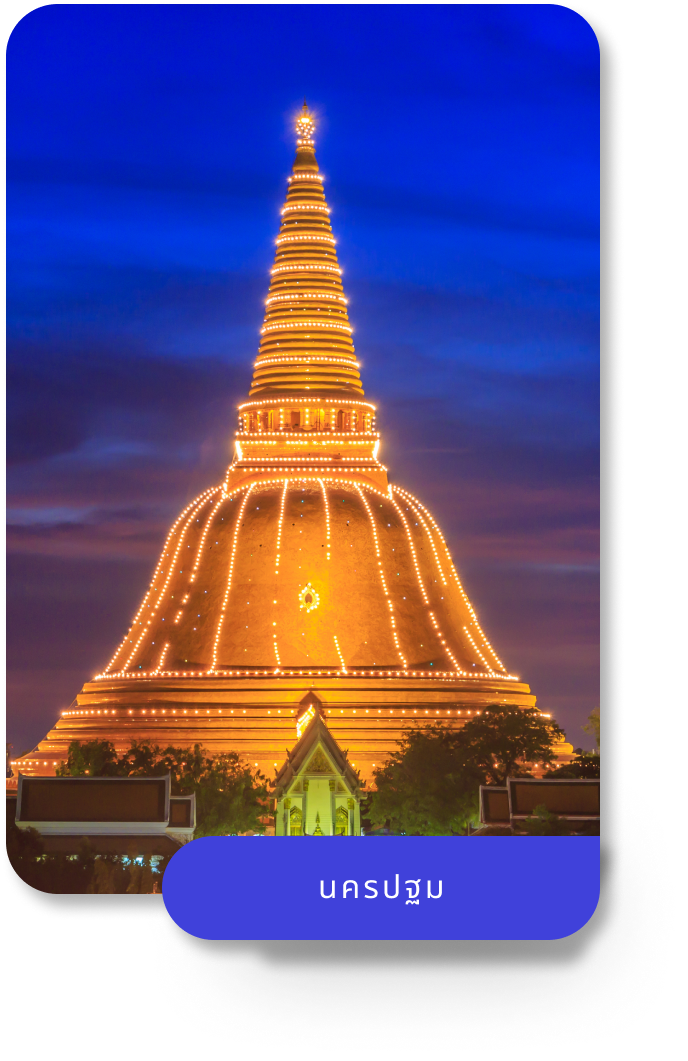
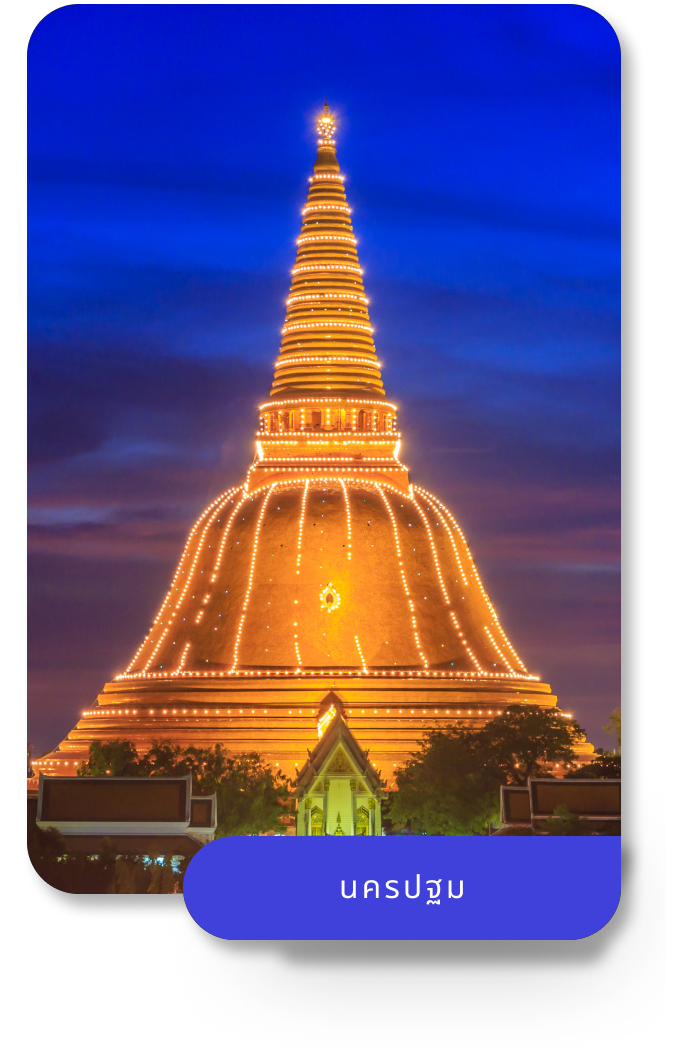
เสร็จหน้า Home

diff --git a/screens/home/Home.vue b/screens/home/Home.vue
@@ -6,13 +6,62 @@
                 background-color="transparent"
                 translucent
         />
+        <view class="main-container">
+            <view :style="{marginLeft: 25, marginBottom: 25}">
+                <text class="province-name-en">{{provinceNameEn}}</text>
+                <text class="province-name-th">{{provinceNameTh}}</text>
+                <text class="temperature">{{temperature}}</text>
+                <text class="status">{{status}}</text>
+            </view>
+
+            <view-pager class="view-pager"
+                        :initialPage="0"
+                        :pageMargin="-100"
+                        :onPageSelected="handlePageSelect">
+                <view key="1">
+                    <image :source="imageNakhonPathom"
+                           class="image-nakhon-pathom"
+                           resizeMode="contain"
+                           :onLayout="handleLayoutChange"/>
+                </view>
+                <view key="2">
+                    <image :source="imageYasothon"
+                           class="image-yasothon"
+                           resizeMode="contain"/>
+                </view>
+            </view-pager>
+        </view>
     </image-background>
 </template>
 
 <script>
-    import bg from '../../assets/bg_yasothon.jpg';
+    // แก้ปัญหาเรื่อง androidx
+    // https://github.com/react-native-community/react-native-geolocation/issues/39
+
+    import ViewPager from '@react-native-community/viewpager';
+    import bgNakhonPathom from '../../assets/bg_nakhon_pathom.jpg';
+    import bgYasothon from '../../assets/bg_yasothon.jpg';
+    import imageNakhonPathom from '../../assets/bg_card_nakhon_pathom_w500.png';
+    import imageYasothon from '../../assets/bg_card_yasothon_w500.png';
+
+    const provinceList = [
+        {
+            bg: bgNakhonPathom,
+            nameTh: 'นครปฐม',
+            nameEn: 'Nakhon Pathom',
+            temperature: 32,
+            status: 'แดดจัด ห่างออกไป 239 กิโลเมตร',
+        }, {
+            bg: bgYasothon,
+            nameTh: 'ยโสธร',
+            nameEn: 'Yasothon',
+            temperature: 38,
+            status: 'แดดจัด ห่างออกไป 543 กิโลเมตร',
+        }
+    ];
 
     export default {
+        components: {ViewPager},
         props: {
             navigation: { // stack navigator
                 type: Object
@@ -20,14 +69,106 @@
         },
         data: () => {
             return {
-                bg,
+                bg: provinceList[0].bg,
+                provinceNameTh: provinceList[0].nameTh,
+                provinceNameEn: provinceList[0].nameEn,
+                temperature: provinceList[0].temperature,
+                status: provinceList[0].status,
+
+                imageNakhonPathom,
+                imageYasothon,
+                imageWidth: 0,
+                imageHeight: 0,
+                viewPagerMargin: 0,
+                status: false,
             };
         },
         methods: {
+            handleLayoutChange: function(e) {
+                if (this.status) {
+                    return;
+                }
 
+                const {x, y, width, height} = e.nativeEvent.layout;
+                this.imageWidth = width;
+                this.imageHeight = height;
+                //alert(`x: ${x}\ny: ${y}\nwidth: ${width}\nheight: ${height}`);
+
+                let scaleMargin = null;
+                if ((height / width) > (773 / 500)) {
+                    // ความกว้างรูปจะเต็ม image
+                    // ช่องว่างด้านซ้ายรูป 19px, ช่องว่างด้านขวารูป: 46px
+                    scaleMargin = (width * 46 / 500);
+                    this.viewPagerMargin = -1 * scaleMargin;
+                } else {
+                    // ความสูงรูปจะเต็ม image
+
+                }
+                this.status = true;
+            },
+            handlePageSelect: function(e) {
+                const selectedPageIndex = e.nativeEvent.position;
+                this.bg = provinceList[selectedPageIndex].bg;
+                this.provinceNameTh = provinceList[selectedPageIndex].nameTh;
+                this.provinceNameEn = provinceList[selectedPageIndex].nameEn;
+                this.temperature = provinceList[selectedPageIndex].temperature;
+                this.status = provinceList[selectedPageIndex].status;
+            }
         }
     }
 </script>
 
 <style>
+    .main-container {
+        flex: 1;
+    }
+
+    .view-pager {
+        flex: 1;
+        margin-top: 180;
+    }
+
+    .province-name-en {
+        position: absolute;
+        font-family: DBHeaventt-Light;
+        color: white;
+        font-size: 18;
+        margin-top: 60;
+    }
+
+    .province-name-th {
+        position: absolute;
+        font-family: DBHeavent-Bold;
+        color: white;
+        font-size: 55;
+        margin-top: 68;
+    }
+
+    .temperature {
+        position: absolute;
+        font-family: DBHeavent-Med;
+        color: white;
+        font-size: 90;
+        margin-top: 96;
+    }
+
+    .status {
+        position: absolute;
+        font-family: DBHeaventt-Light;
+        color: white;
+        font-size: 18;
+        margin-top: 175;
+    }
+    .image-nakhon-pathom {
+        flex: 1;
+        width: 100%;
+        border-width: 0;
+        border-color: red;
+    }
+    .image-yasothon {
+        flex: 1;
+        width: 100%;
+        border-width: 0;
+        border-color: yellow;
+    }
 </style>

diff --git a/screens/home/Index.vue b/screens/home/Index.vue
@@ -6,9 +6,25 @@
     import {
         createAppContainer,
         createStackNavigator,
+        createMaterialTopTabNavigator,
+        createBottomTabNavigator,
     } from "vue-native-router";
 
     import Home from './Home';
+
+    /*const MaterialTopTabNavigator = createMaterialTopTabNavigator(
+        {
+            Details: DetailsScreen,
+            Settings: SettingsScreen
+        }
+    );
+
+    const BottomTabNavigator = createBottomTabNavigator(
+        {
+            Details: DetailsScreen,
+            Settings: SettingsScreen
+        }
+    );*/
 
     const stackNavigator = createStackNavigator(
         {

diff --git a/android/app/src/main/java/com/gistda/MainApplication.java b/android/app/src/main/java/com/gistda/MainApplication.java
@@ -3,6 +3,7 @@ package com.gistda;
 import android.app.Application;
 
 import com.facebook.react.ReactApplication;
+import com.reactnativecommunity.viewpager.RNCViewPagerPackage;
 import com.oblador.vectoricons.VectorIconsPackage;
 import com.swmansion.reanimated.ReanimatedPackage;
 import com.swmansion.gesturehandler.react.RNGestureHandlerPackage;
@@ -26,6 +27,7 @@ public class MainApplication extends Application implements ReactApplication {
     protected List<ReactPackage> getPackages() {
       return Arrays.<ReactPackage>asList(
           new MainReactPackage(),
+            new RNCViewPagerPackage(),
             new VectorIconsPackage(),
             new ReanimatedPackage(),
             new RNGestureHandlerPackage()
